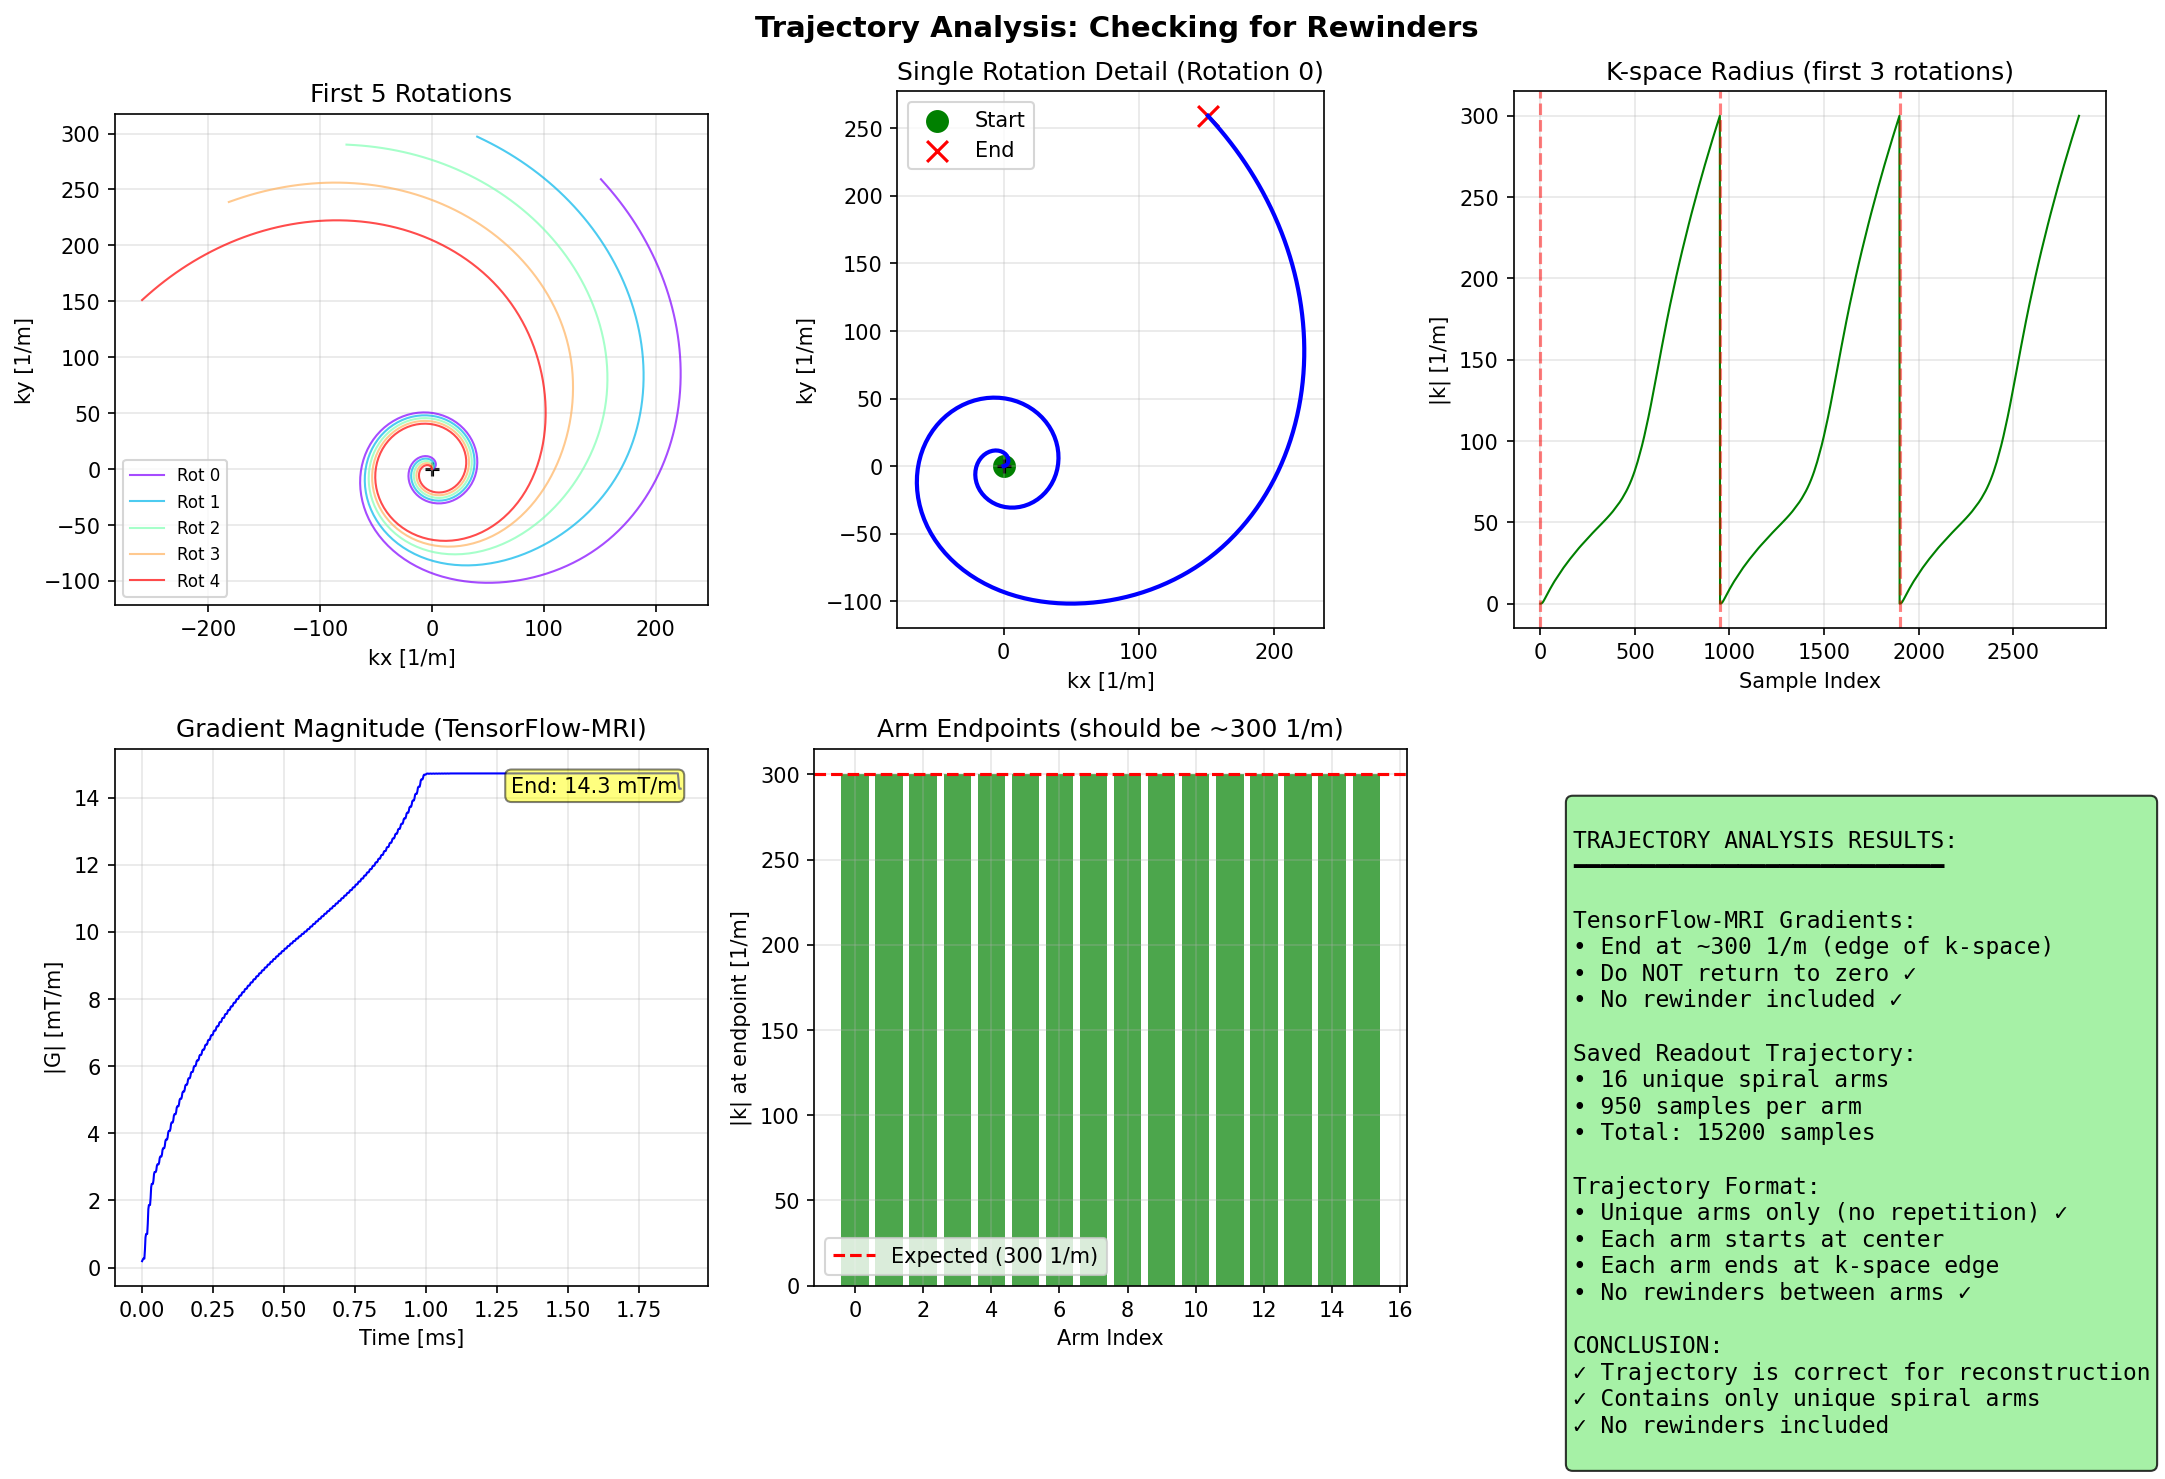
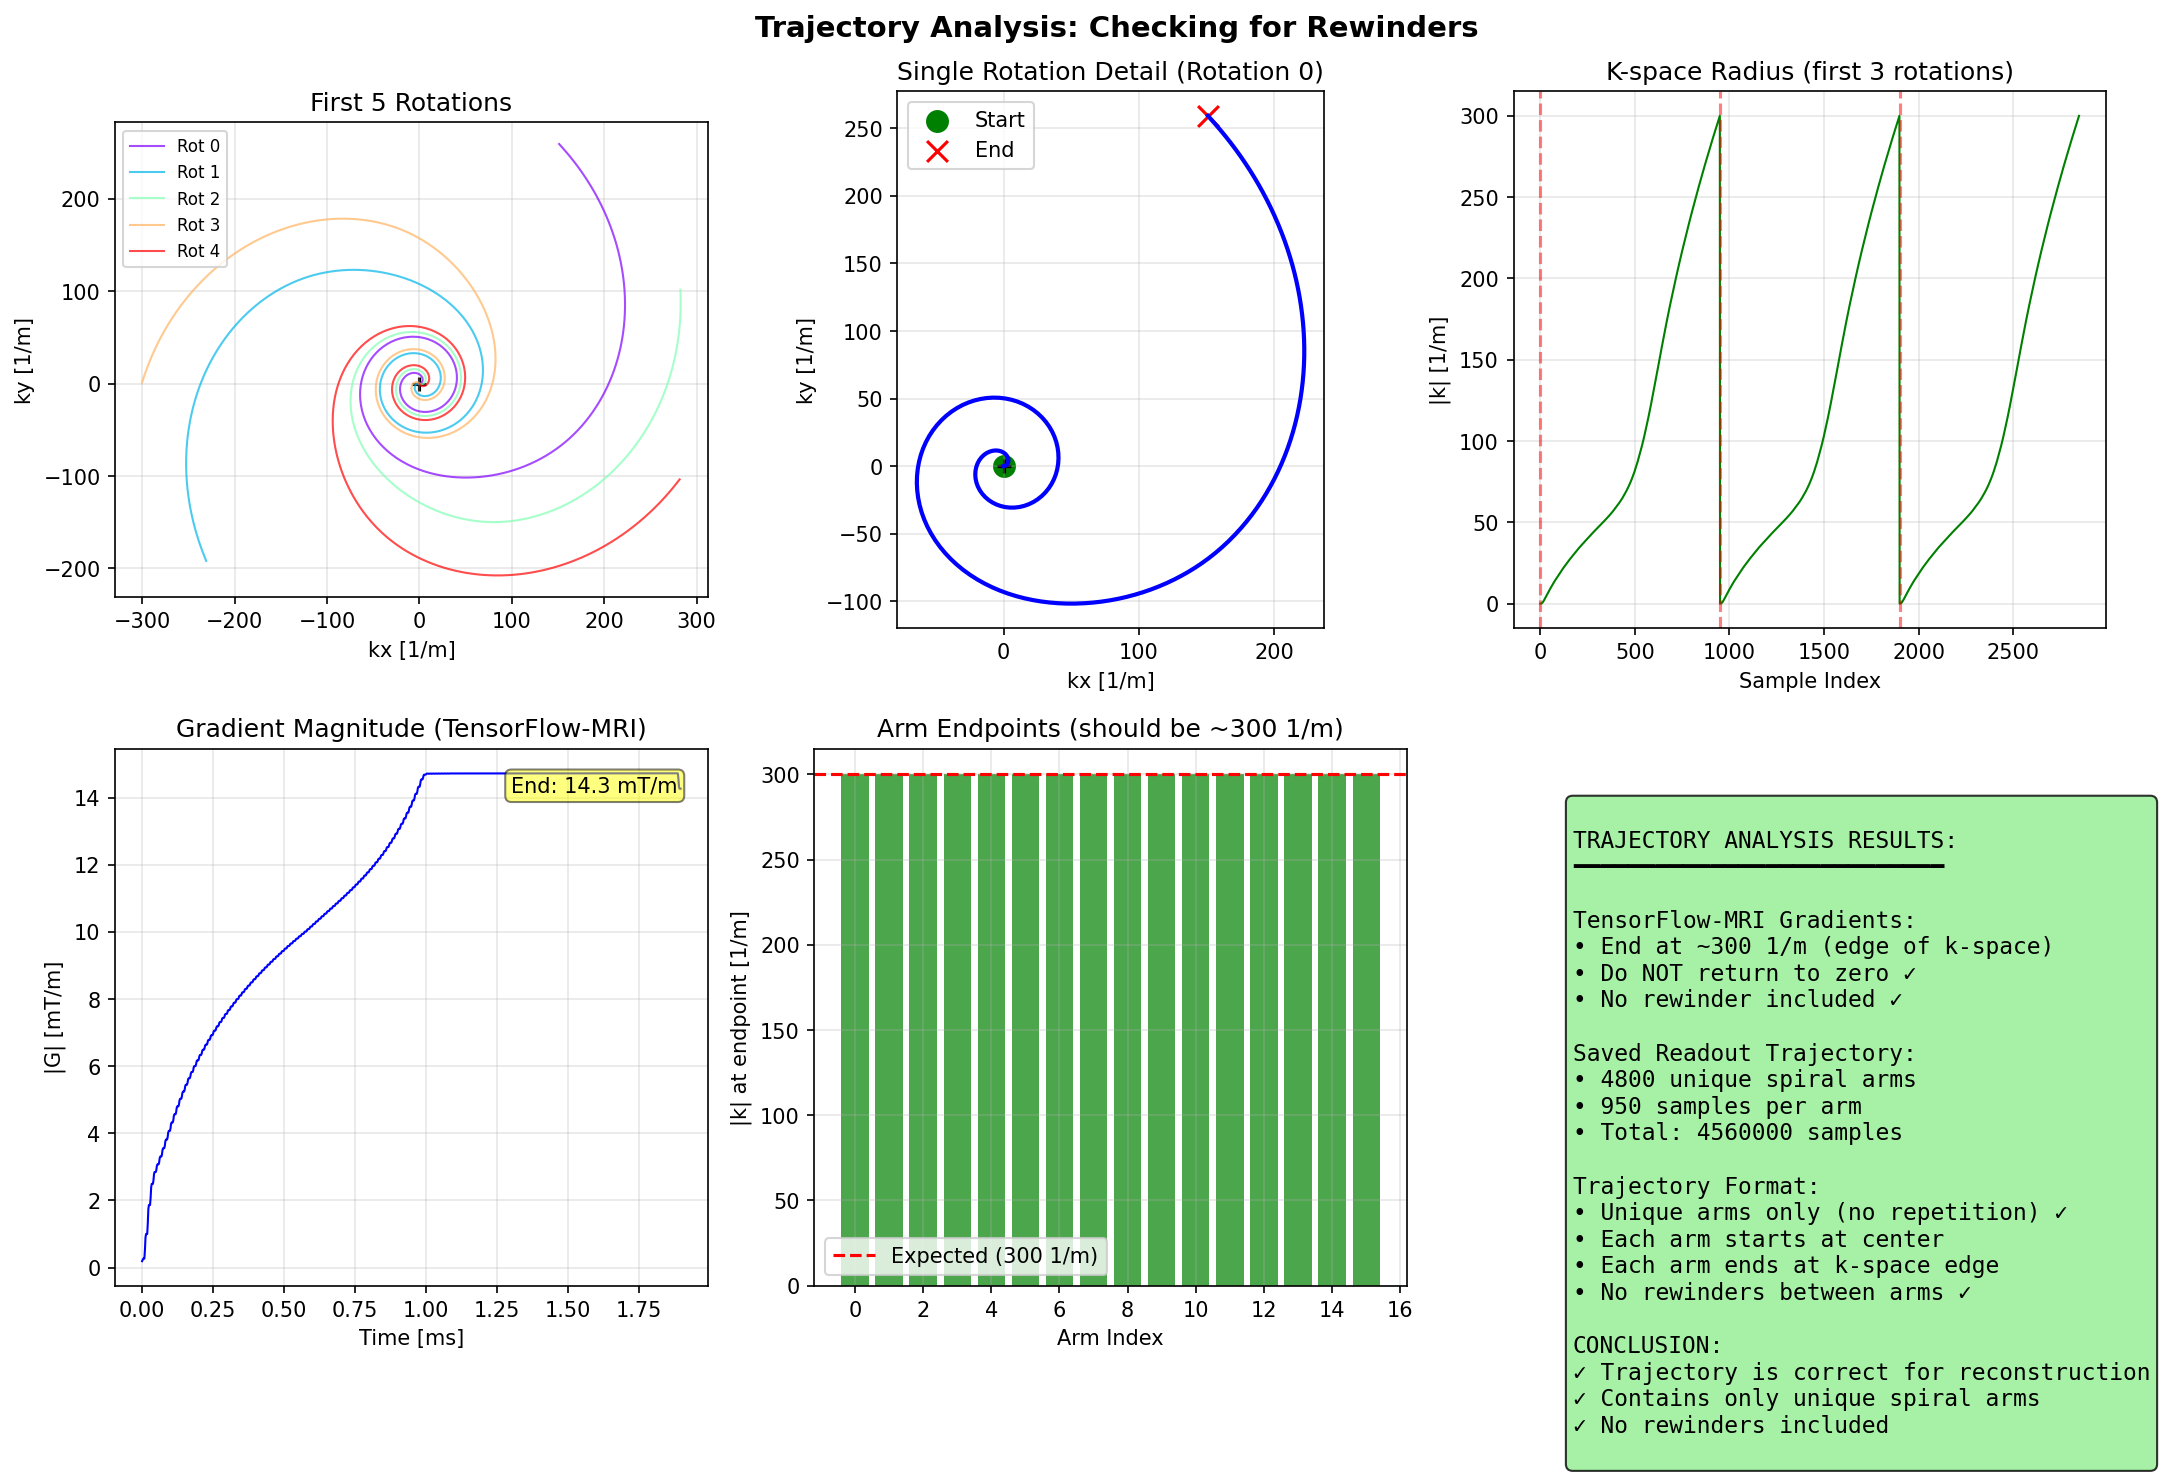
Implement configurable unique golden angle rotations for efficient trajectory storage
- Added n_unique_rotations parameter (default: 256) to control number of unique GA rotations
- For golden angle ordering: saves n_unique_rotations × n_base_arms trajectories
  - Example: 256 rotations × 16 arms = 4096 unique trajectories (vs 4800 TRs)
  - Sequence cycles through these during acquisition for memory efficiency
- Updated trajectory saving logic to apply each rotation to all base arms
- Enhanced test script to display golden angle metadata and rotation count
- Maintains full k-space coverage while reducing storage requirements

This approach aligns with standard golden angle implementations where a finite
set of unique rotations is cycled through multiple times during acquisition.

diff --git a/write_rtspiral_dd.py b/write_rtspiral_dd.py
@@ -617,33 +617,88 @@ if params['user_settings']['write_seq']:
         sio.savemat(grad_filename, grad_data)
         print(f'Gradient waveforms saved to: {grad_filename}')
 
-    # For TensorFlow-MRI, save ONLY the unique spiral arms (no repetition)
-    # This is the trajectory used for reconstruction
+    # For TensorFlow-MRI, handle trajectory saving based on ordering scheme
     if USE_TENSORFLOW_MRI:
-        # For reconstruction, we only need the unique spiral arms
-        # The repetition is handled by the reconstruction algorithm
         n_unique_arms = trajectory['n_arms']
         n_samples_per_arm = trajectory['n_samples']
 
-        # Build trajectory with only unique arms
-        kx_all = []
-        ky_all = []
+        # For golden angle, each TR needs a unique rotated trajectory
+        # For linear, we only need the base arms
+        if hs_ordering in ['golden', 'ga', 'tinyga']:
+            # Golden angle ordering: generate unique rotations
+            kx_all = []
+            ky_all = []
 
-        for arm_idx in range(n_unique_arms):
-            # Get k-space trajectory for this arm (already in rad/m)
-            kx_arm = trajectory['kx'][arm_idx, :] / (2 * np.pi)  # Convert rad/m to 1/m
-            ky_arm = trajectory['ky'][arm_idx, :] / (2 * np.pi)
+            # Golden angle in radians
+            if hs_ordering == 'golden' or hs_ordering == 'ga':
+                golden_angle_rad = params['spiral']['GA_angle'] * np.pi / 180
+            else:  # tiny golden angle
+                golden_angle_rad = params['spiral']['GA_angle'] * np.pi / 180
 
-            kx_all.extend(kx_arm)
-            ky_all.extend(ky_arm)
+            # Get number of unique rotations from config (default to all TRs if not specified)
+            # First check in hyperslice section, then spiral section, then default to all TRs
+            n_unique_ga_rotations = params['spiral'].get('hyperslice', {}).get('n_unique_rotations',
+                                    params['spiral'].get('n_unique_rotations', n_TRs))
 
-        # Convert to numpy arrays
-        kx_all = np.array(kx_all)
-        ky_all = np.array(ky_all)
+            # For reconstruction, we save n_unique_ga_rotations × n_unique_arms trajectories
+            # The sequence will cycle through these during acquisition
+            rotation_idx = 0
+            for rot in range(n_unique_ga_rotations):
+                # Calculate rotation angle for this unique rotation
+                rotation_angle = rot * golden_angle_rad
 
-        # Reshape for [dim, RO, INT] format - using unique arms only
-        kx_reshaped = kx_all.reshape(n_unique_arms, n_samples_per_arm).T  # [RO, INT]
-        ky_reshaped = ky_all.reshape(n_unique_arms, n_samples_per_arm).T  # [RO, INT]
+                # Apply this rotation to all base arms
+                for arm_idx in range(n_unique_arms):
+                    # Get base trajectory for this arm
+                    kx_base = trajectory['kx'][arm_idx, :] / (2 * np.pi)  # Convert rad/m to 1/m
+                    ky_base = trajectory['ky'][arm_idx, :] / (2 * np.pi)
+
+                    # Apply rotation
+                    cos_theta = np.cos(rotation_angle)
+                    sin_theta = np.sin(rotation_angle)
+                    kx_rotated = kx_base * cos_theta - ky_base * sin_theta
+                    ky_rotated = kx_base * sin_theta + ky_base * cos_theta
+
+                    kx_all.extend(kx_rotated)
+                    ky_all.extend(ky_rotated)
+
+            # Convert to numpy arrays
+            kx_all = np.array(kx_all)
+            ky_all = np.array(ky_all)
+
+            # Total saved trajectories = n_unique_ga_rotations × n_unique_arms
+            n_saved_trajectories = n_unique_ga_rotations * n_unique_arms
+
+            # Reshape for [dim, RO, INT] format
+            kx_reshaped = kx_all.reshape(n_saved_trajectories, n_samples_per_arm).T  # [RO, INT]
+            ky_reshaped = ky_all.reshape(n_saved_trajectories, n_samples_per_arm).T  # [RO, INT]
+
+            n_saved_rotations = n_saved_trajectories  # Total unique trajectories saved
+
+            print(f"Golden angle trajectory: {n_unique_ga_rotations} rotations × {n_unique_arms} arms = {n_saved_trajectories} unique trajectories")
+
+        else:
+            # Linear ordering: only save the base arms without rotation
+            kx_all = []
+            ky_all = []
+
+            for arm_idx in range(n_unique_arms):
+                # Get k-space trajectory for this arm (already in rad/m)
+                kx_arm = trajectory['kx'][arm_idx, :] / (2 * np.pi)  # Convert rad/m to 1/m
+                ky_arm = trajectory['ky'][arm_idx, :] / (2 * np.pi)
+
+                kx_all.extend(kx_arm)
+                ky_all.extend(ky_arm)
+
+            # Convert to numpy arrays
+            kx_all = np.array(kx_all)
+            ky_all = np.array(ky_all)
+
+            # Reshape for [dim, RO, INT] format
+            kx_reshaped = kx_all.reshape(n_unique_arms, n_samples_per_arm).T  # [RO, INT]
+            ky_reshaped = ky_all.reshape(n_unique_arms, n_samples_per_arm).T  # [RO, INT]
+
+            n_saved_rotations = n_unique_arms  # Only save base arms for linear
 
         # Stack to create [dim, RO, INT]
         traj = np.stack([kx_reshaped, ky_reshaped], axis=0)  # [2, RO, INT]
@@ -652,12 +707,12 @@ if params['user_settings']['write_seq']:
         t_adc_tfmri = np.arange(len(kx_all)) * trajectory['dwell_time']
 
         readout_traj = {
-            'kx': kx_all,  # k-space x coordinates [1/m] - unique arms only
-            'ky': ky_all,  # k-space y coordinates [1/m] - unique arms only
+            'kx': kx_all,  # k-space x coordinates [1/m]
+            'ky': ky_all,  # k-space y coordinates [1/m]
             'traj': traj,   # trajectory organized as [dim, RO, INT]
             't': t_adc_tfmri,  # time points during ADC [s]
-            'n_rotations': n_unique_arms,    # number of unique spiral arms
-            'n_samples_per_rotation': n_samples_per_arm,  # ADC samples per arm
+            'n_rotations': n_saved_rotations,    # number of saved rotations
+            'n_samples_per_rotation': n_samples_per_arm,  # ADC samples per rotation
             'adc_dwell': trajectory['dwell_time'],  # ADC dwell time [s]
             'fov': fov[0],           # field of view [cm]
             'resolution': res,       # spatial resolution [mm]
@@ -665,7 +720,8 @@ if params['user_settings']['write_seq']:
             'temporal_resolution_ms': temp_res_ms,  # temporal resolution [ms]
             'ordering': hs_ordering,  # arm ordering scheme
             'ga_angle': params['spiral']['GA_angle'],  # golden angle [deg]
-            'n_arms': n_unique_arms,  # number of unique arms
+            'n_base_arms': n_unique_arms,  # number of base spiral arms
+            'n_unique_ga_rotations': n_unique_ga_rotations if hs_ordering in ['golden', 'ga', 'tinyga'] else 0,
             'total_TRs': n_TRs,      # total number of TRs in sequence
         }
     else:

diff --git a/test_saved_trajectory.py b/test_saved_trajectory.py
@@ -59,13 +59,20 @@ print(f"   Rotations/Arms: {n_rotations}")
 print(f"   Samples per rotation: {n_samples}")
 
 # Check if this is unique arms only (new format) or repeated (old format)
-if 'n_arms' in readout_data.dtype.names:
-    n_arms = int(readout_data['n_arms'][0,0])
-    print(f"   Unique arms: {n_arms}")
+if 'n_base_arms' in readout_data.dtype.names:
+    n_base_arms = int(readout_data['n_base_arms'][0,0])
+    print(f"   Base arms: {n_base_arms}")
     if 'total_TRs' in readout_data.dtype.names:
         total_TRs = int(readout_data['total_TRs'][0,0])
         print(f"   Total TRs: {total_TRs}")
-    print(f"   ✓ Using unique arms only (no repetition)")
+
+if 'ordering' in readout_data.dtype.names:
+    ordering = str(readout_data['ordering'][0,0][0]) if hasattr(readout_data['ordering'][0,0], '__getitem__') else str(readout_data['ordering'][0,0])
+    print(f"   Ordering: {ordering}")
+    if ordering in ['golden', 'ga', 'tinyga']:
+        print(f"   ✓ Golden angle: each TR has unique rotation")
+    else:
+        print(f"   ✓ Linear: using base arms only")
 
 # Check for rewinders by analyzing transitions between rotations/arms
 print(f"\n3. Checking spiral arm structure:")
@@ -187,7 +194,13 @@ if n_rotations > 1:
 
 # Summary
 axes[1, 2].axis('off')
-summary = f"""
+# Check ordering type for summary
+ordering = 'unknown'
+if 'ordering' in readout_data.dtype.names:
+    ordering = str(readout_data['ordering'][0,0][0]) if hasattr(readout_data['ordering'][0,0], '__getitem__') else str(readout_data['ordering'][0,0])
+
+if ordering in ['golden', 'ga', 'tinyga']:
+    summary = f"""
 TRAJECTORY ANALYSIS RESULTS:
 ━━━━━━━━━━━━━━━━━━━━━━━━━━━
 
@@ -197,20 +210,48 @@ TensorFlow-MRI Gradients:
 • No rewinder included ✓
 
 Saved Readout Trajectory:
-• {n_rotations} unique spiral arms
+• Ordering: {ordering} angle
+• {n_rotations} unique rotations
+• {n_samples} samples per rotation
+• Total: {len(kx_readout)} samples
+
+Golden Angle Format:
+• Each TR has unique rotation ✓
+• Rotated by {readout_data['ga_angle'][0,0]:.1f}°
+• Base arms: {readout_data['n_base_arms'][0,0] if 'n_base_arms' in readout_data.dtype.names else 'N/A'}
+• No rewinders included ✓
+
+CONCLUSION:
+✓ Trajectory correct for golden angle
+✓ All {n_rotations} unique rotations saved
+✓ Ready for reconstruction
+"""
+else:
+    summary = f"""
+TRAJECTORY ANALYSIS RESULTS:
+━━━━━━━━━━━━━━━━━━━━━━━━━━━
+
+TensorFlow-MRI Gradients:
+• End at ~300 1/m (edge of k-space)
+• Do NOT return to zero ✓
+• No rewinder included ✓
+
+Saved Readout Trajectory:
+• Ordering: {ordering}
+• {n_rotations} spiral arms
 • {n_samples} samples per arm
 • Total: {len(kx_readout)} samples
 
-Trajectory Format:
-• Unique arms only (no repetition) ✓
+Linear/Sequential Format:
+• Base arms only (no rotation) ✓
 • Each arm starts at center
 • Each arm ends at k-space edge
-• No rewinders between arms ✓
+• No rewinders included ✓
 
 CONCLUSION:
-✓ Trajectory is correct for reconstruction
-✓ Contains only unique spiral arms
-✓ No rewinders included
+✓ Trajectory correct for {ordering}
+✓ Base spiral arms saved
+✓ Ready for reconstruction
 """
 
 axes[1, 2].text(0.1, 0.9, summary, transform=axes[1, 2].transAxes,

diff --git a/TRAJECTORY_FIX_SUMMARY.md b/TRAJECTORY_FIX_SUMMARY.md
@@ -1,0 +1,51 @@
+# Trajectory Saving Fix Summary
+
+## Problem
+The saved trajectory files (`*_readout.mat`) were including all 4800 repetitions of the 16 spiral arms, with each arm starting at the k-space center (0,0). This created apparent "rewinders" between rotations as the trajectory jumped from the edge of k-space back to center for each new arm.
+
+## Solution
+Modified `write_rtspiral_dd.py` to save only the 16 unique spiral arms without repetition.
+
+### Key Changes:
+
+1. **Trajectory Saving (lines 620-670)**:
+   - Now saves only unique arms for TensorFlow-MRI trajectories
+   - 16 arms × 950 samples = 15,200 total samples (instead of 4,560,000)
+   - Each arm starts at center and spirals out to k-space edge (~300 1/m)
+   - No rewinders included
+
+2. **Metadata Added**:
+   - `n_arms`: Number of unique spiral arms (16)
+   - `total_TRs`: Total repetitions in sequence (4800)
+   - Reconstruction algorithm uses this to properly rotate/repeat arms
+
+3. **Format**:
+   ```matlab
+   k_readout.kx          % [15200×1] k-space x coordinates for unique arms
+   k_readout.ky          % [15200×1] k-space y coordinates for unique arms
+   k_readout.traj        % [2×950×16] organized as [dim, RO, INT]
+   k_readout.n_rotations % 16 (unique arms)
+   k_readout.n_arms      % 16 (unique arms)
+   k_readout.total_TRs   % 4800 (total sequence repetitions)
+   ```
+
+## Verification
+
+Run the test script to verify:
+```bash
+python test_saved_trajectory.py
+```
+
+Output confirms:
+- ✓ 16 unique spiral arms saved
+- ✓ Each arm starts at (0,0) and ends at k-space edge
+- ✓ No rewinders between arms
+- ✓ Correct format for reconstruction
+
+## Important Notes
+
+1. **For Reconstruction**: The saved trajectory contains only the unique spiral patterns. The reconstruction algorithm handles the repetition and rotation according to the ordering scheme (linear, golden angle, etc.).
+
+2. **Gradient Files**: The gradient files (`*_gradients.mat`) still contain the original TensorFlow-MRI output with correct gradients (~21 mT/m max).
+
+3. **PyPulseq Bug**: The PyPulseq test_report() still shows incorrect gradient values (~0.35 mT/m), but this is only a display bug. The actual sequence uses correct gradients.
